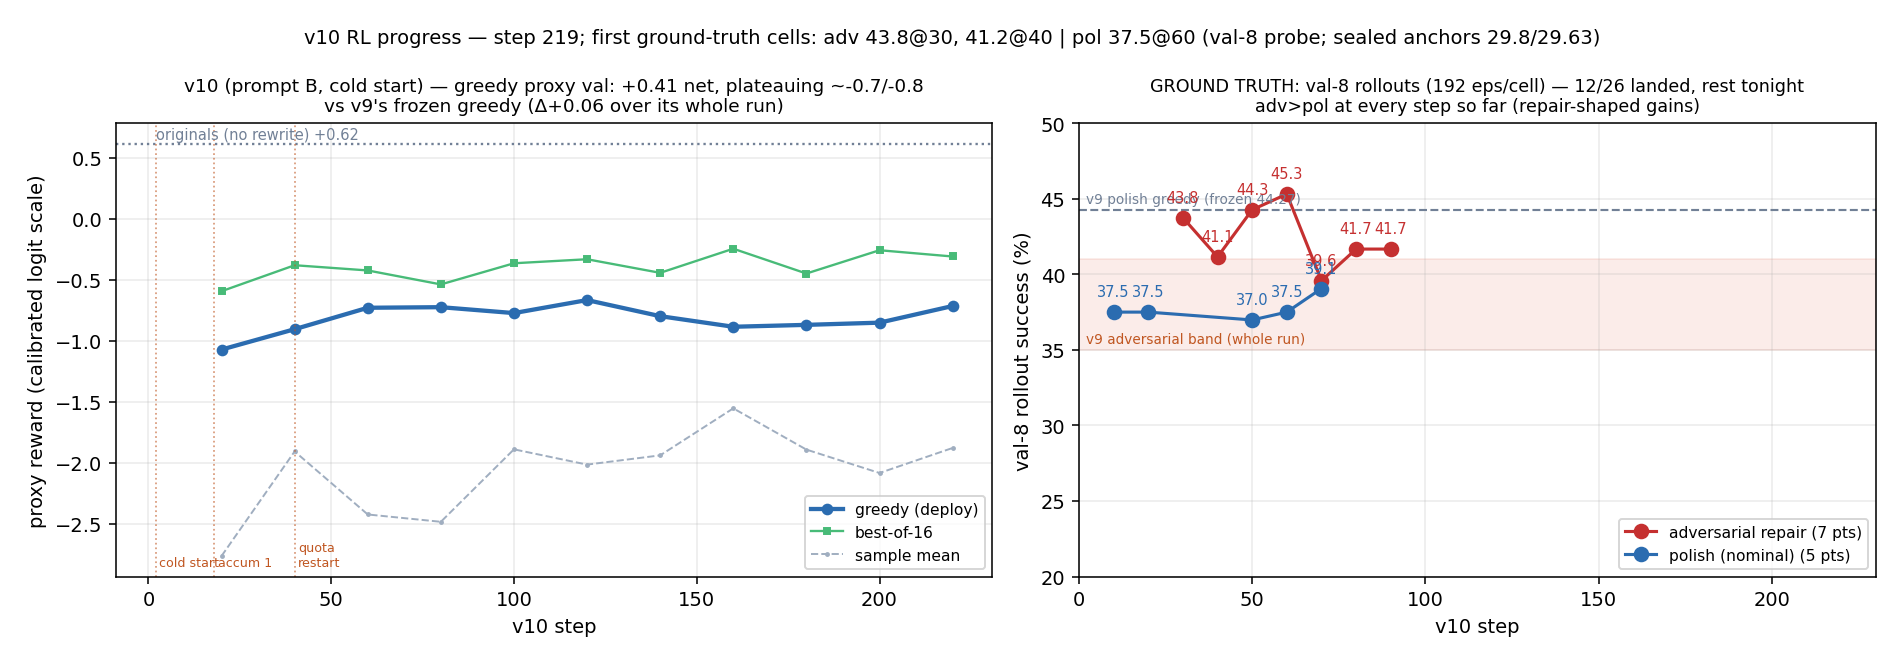
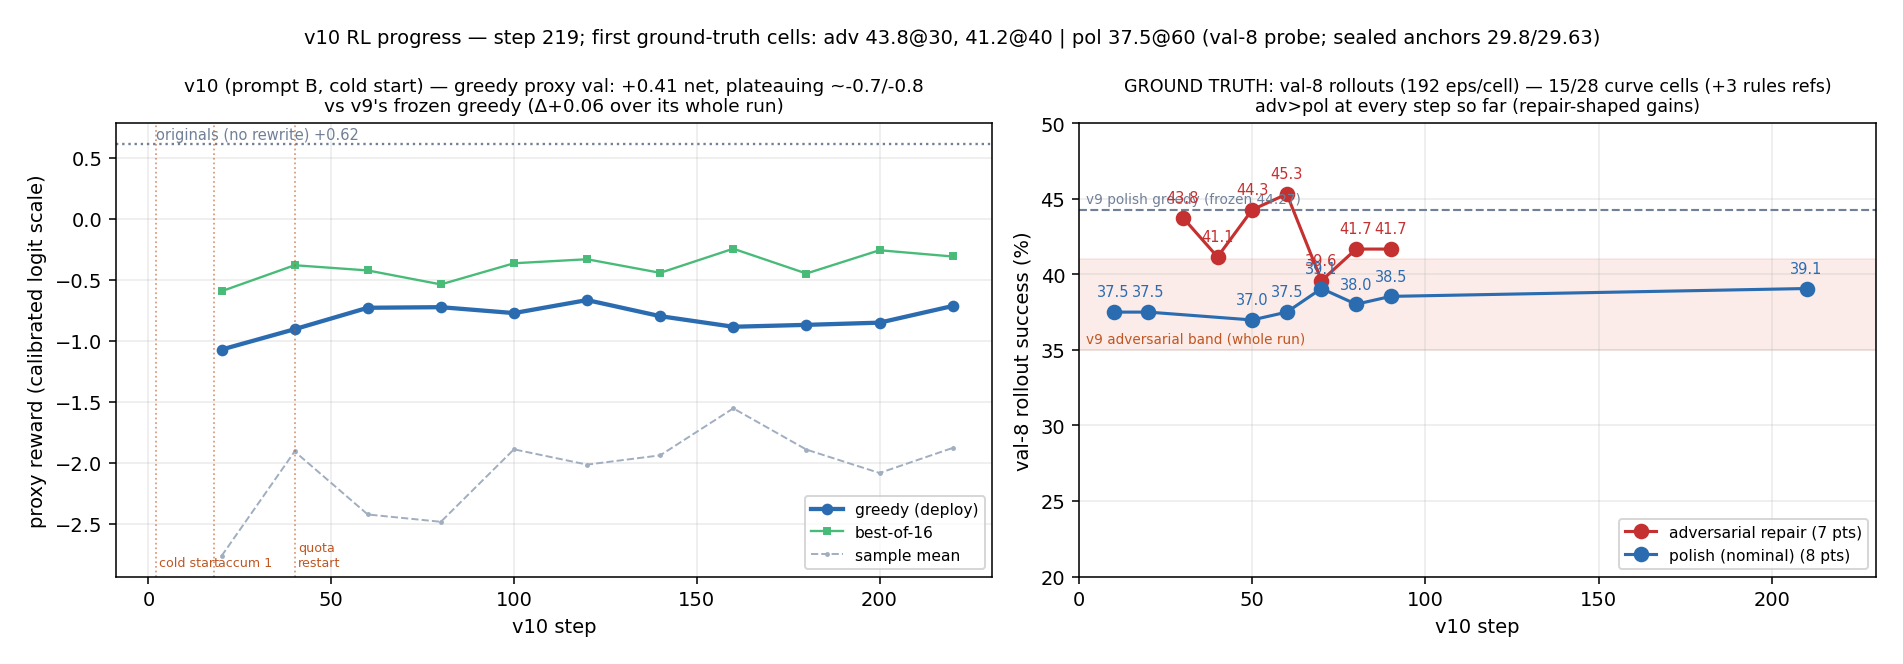
chart: 15 cells (first late cell: pol 210 = 39.06)

Changed region(s): [[0.6821, 0.3916, 0.9611, 0.4819], [0.5891, 0.1205, 0.9611, 0.1506]]

diff --git a/scripts/make_v10_progress.py b/scripts/make_v10_progress.py
@@ -57,7 +57,8 @@ a2.set_xlim(0, 230)
 a2.set_ylim(20, 50)
 a2.set_xlabel("v10 step")
 a2.set_ylabel("val-8 rollout success (%)")
-a2.set_title(f"GROUND TRUTH: val-8 rollouts (192 eps/cell) — {len([c for c in cells if c[chr(39)+"probe"+chr(39)] != chr(39)+"v10_ref"+chr(39)])}/28 curve cells (+3 rules refs)\nadv>pol at every step so far (repair-shaped gains)", fontsize=9)
+n_curve = len([c for c in cells if c["probe"] != "v10_ref"])
+a2.set_title(f"GROUND TRUTH: val-8 rollouts (192 eps/cell) — {n_curve}/28 curve cells (+3 rules refs)\nadv>pol at every step so far (repair-shaped gains)", fontsize=9)
 a2.legend(fontsize=8, loc="lower right")
 a2.grid(alpha=0.25)
 
